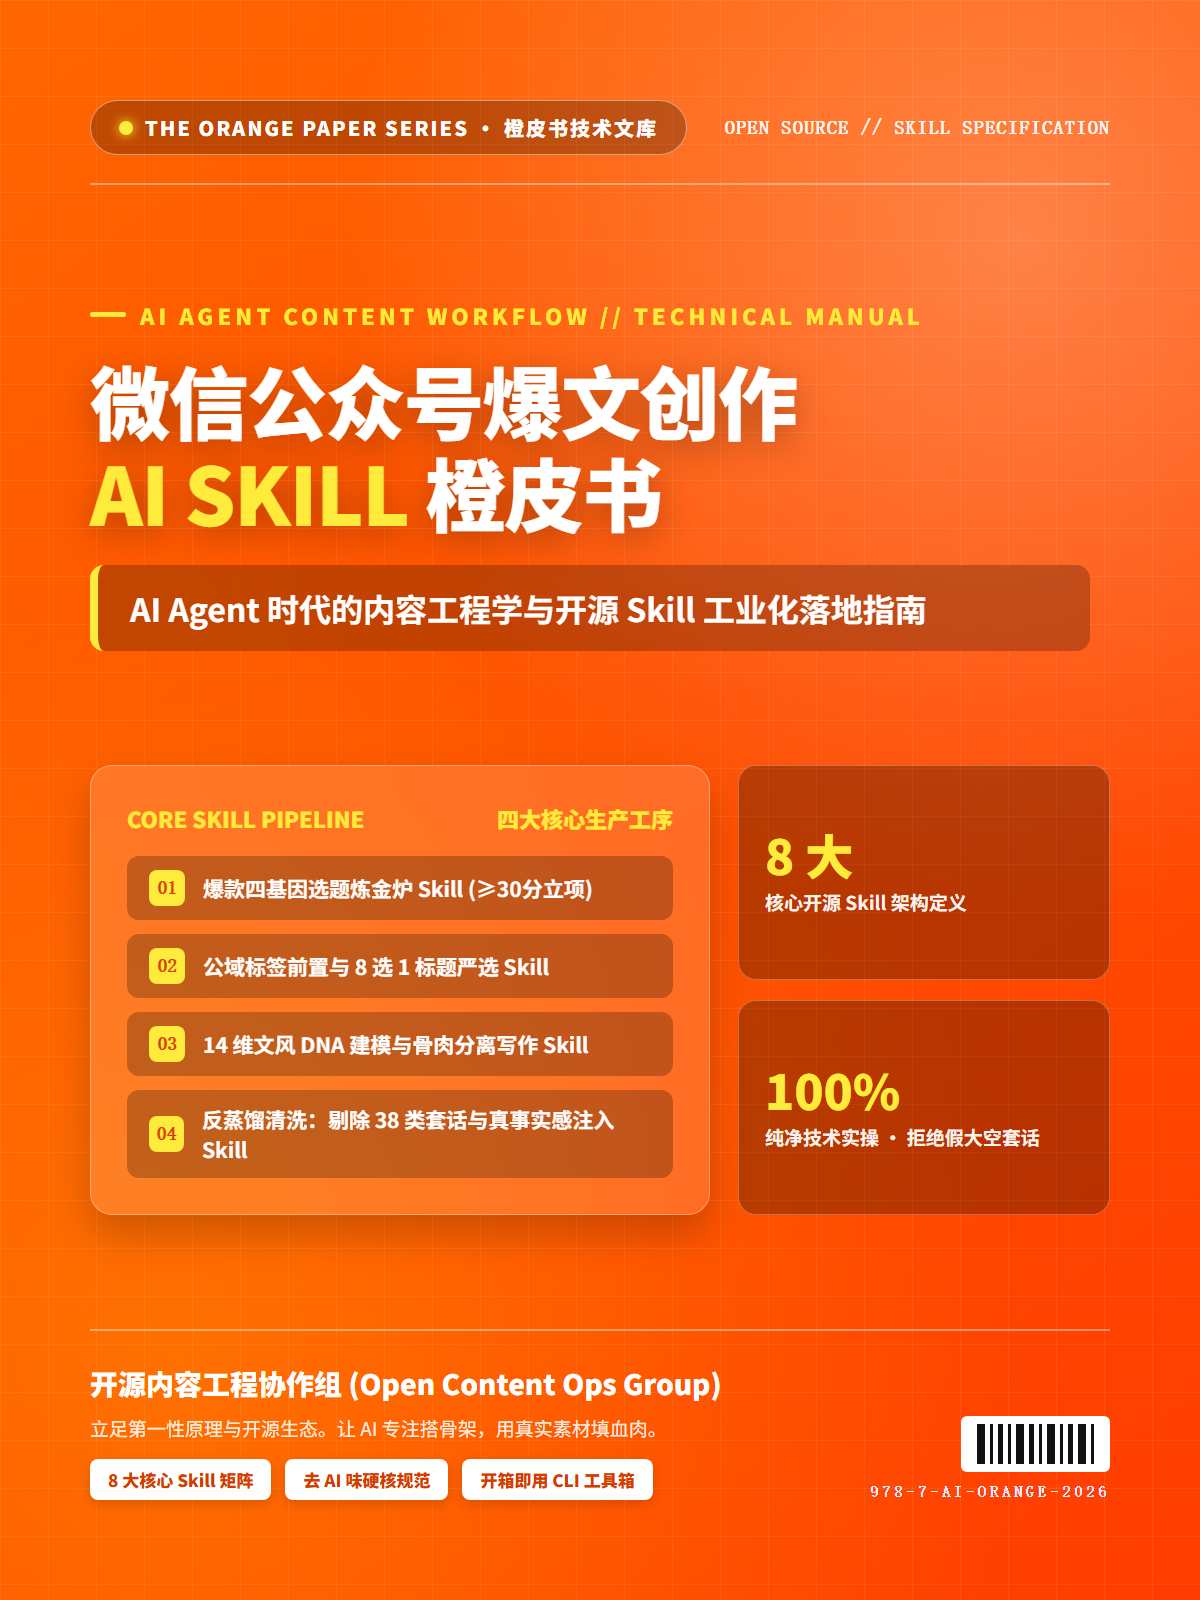
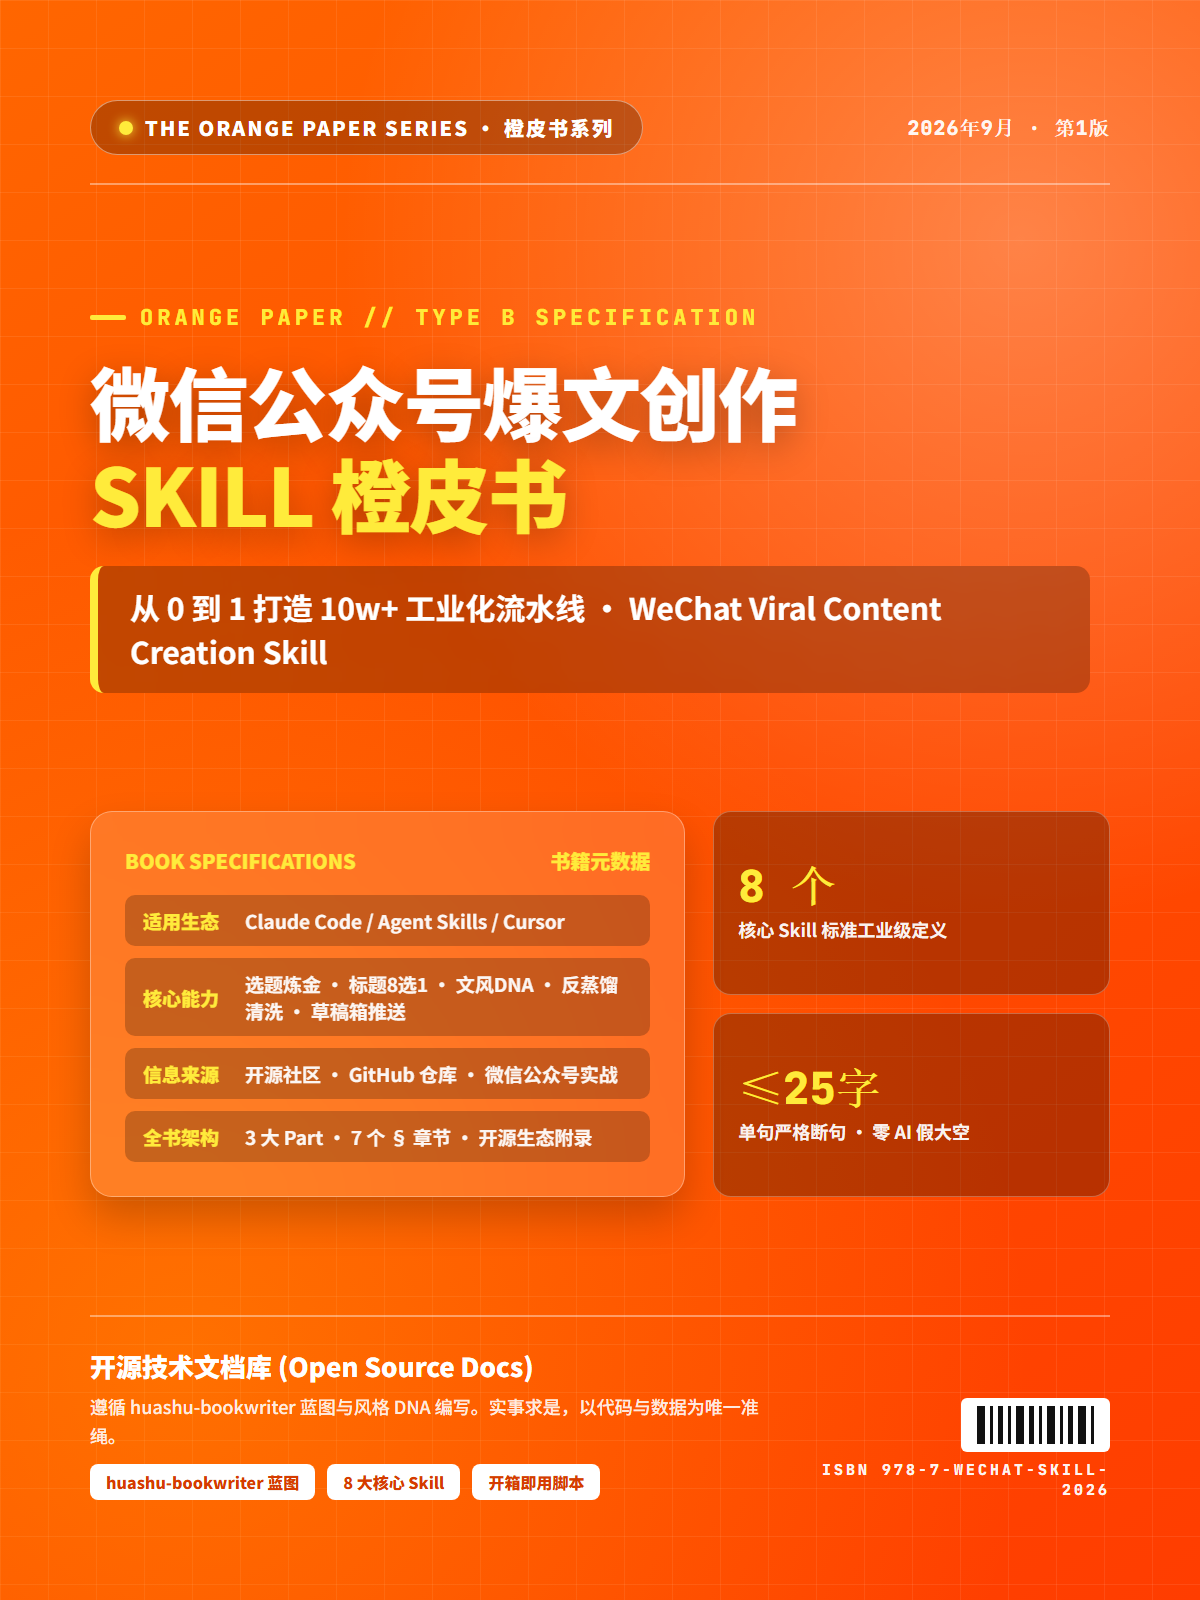
build: adopt ZeroxZhang/huashu-bookwriter skill specification for cover and chapter blueprints

diff --git a/docs/cover.html b/docs/cover.html
@@ -4,7 +4,7 @@
 <meta charset="UTF-8">
 <title>微信公众号爆文创作 Skill 橙皮书 封面</title>
 <style>
-  @import url('https://fonts.googleapis.com/css2?family=Plus+Jakarta+Sans:wght@700;800;900&family=Noto+Sans+SC:wght@500;700;900&family=JetBrains+Mono:wght@600&display=swap');
+  @import url('https://fonts.googleapis.com/css2?family=Plus+Jakarta+Sans:wght@700;800;900&family=Noto+Sans+SC:wght@500;700;900&family=JetBrains+Mono:wght@600;800&display=swap');
 
   * {
     margin: 0;
@@ -26,7 +26,6 @@
     padding: 100px 90px;
   }
 
-  /* 亮橙科技网格背景 */
   .bg-grid {
     position: absolute;
     top: 0;
@@ -43,7 +42,6 @@
     z-index: 1;
   }
 
-  /* 顶栏信息 */
   .top-bar {
     position: relative;
     z-index: 10;
@@ -81,7 +79,6 @@
     letter-spacing: 1px;
   }
 
-  /* 核心标题区 - 超大字号！纯净无私货 */
   .main-title-box {
     position: relative;
     z-index: 10;
@@ -121,7 +118,7 @@
     display: inline;
   }
   .book-subtitle {
-    font-size: 32px;
+    font-size: 30px;
     font-weight: 700;
     line-height: 1.45;
     color: #ffffff;
@@ -133,123 +130,114 @@
     backdrop-filter: blur(10px);
   }
 
-  /* 视觉中枢卡片 - 聚焦 8 大核心 Skill */
-  .visual-center {
+  .meta-grid {
     position: relative;
     z-index: 10;
     margin: 30px 0;
     display: grid;
-    grid-template-columns: 1.25fr 0.75fr;
+    grid-template-columns: 1.2fr 0.8fr;
     gap: 28px;
   }
-  .hero-card {
+  .spec-card {
     background: rgba(255, 255, 255, 0.14);
     backdrop-filter: blur(20px);
     border: 1px solid rgba(255, 255, 255, 0.35);
     border-radius: 22px;
-    padding: 36px;
+    padding: 34px;
     box-shadow: 0 20px 40px rgba(0, 0, 0, 0.2);
   }
-  .hero-card-title {
-    font-size: 22px;
+  .spec-card-title {
+    font-size: 20px;
     font-weight: 800;
     color: #FFEB3B;
-    margin-bottom: 22px;
+    margin-bottom: 20px;
     display: flex;
     justify-content: space-between;
-    align-items: center;
   }
-  .pipeline-steps {
+  .spec-list {
     display: flex;
     flex-direction: column;
-    gap: 14px;
-  }
-  .step-item {
-    display: flex;
-    align-items: center;
-    gap: 18px;
-    font-size: 21px;
-    font-weight: 700;
-    background: rgba(0, 0, 0, 0.24);
-    padding: 14px 22px;
-    border-radius: 12px;
-  }
-  .step-num {
-    background: #FFEB3B;
-    color: #D63B00;
-    font-family: 'JetBrains Mono', monospace;
-    font-weight: 900;
-    width: 36px;
-    height: 36px;
-    border-radius: 8px;
-    display: flex;
-    align-items: center;
-    justify-content: center;
+    gap: 12px;
     font-size: 19px;
   }
-  .stats-card {
+  .spec-row {
+    display: flex;
+    gap: 12px;
+    background: rgba(0, 0, 0, 0.22);
+    padding: 12px 18px;
+    border-radius: 10px;
+    align-items: center;
+  }
+  .spec-k {
+    font-weight: 800;
+    color: #FFEB3B;
+    min-width: 90px;
+  }
+  .spec-v {
+    color: rgba(255, 255, 255, 0.95);
+    font-weight: 600;
+  }
+
+  .summary-card {
     display: flex;
     flex-direction: column;
-    gap: 20px;
+    gap: 18px;
   }
-  .stat-box {
+  .sum-box {
     background: rgba(0, 0, 0, 0.28);
     border: 1px solid rgba(255, 255, 255, 0.28);
     border-radius: 18px;
-    padding: 26px;
+    padding: 24px;
     flex: 1;
     display: flex;
     flex-direction: column;
     justify-content: center;
   }
-  .stat-val {
-    font-family: 'JetBrains Mono', sans-serif;
-    font-size: 48px;
+  .sum-num {
+    font-family: 'JetBrains Mono', monospace;
+    font-size: 44px;
     font-weight: 900;
     color: #FFEB3B;
     line-height: 1;
   }
-  .stat-desc {
-    font-size: 19px;
+  .sum-lbl {
+    font-size: 18px;
     color: rgba(255, 255, 255, 0.95);
-    margin-top: 10px;
+    margin-top: 8px;
     font-weight: 700;
   }
 
-  /* 底部元数据 - 纯粹开源规范 */
   .footer-meta {
     position: relative;
     z-index: 10;
     border-top: 2px solid rgba(255, 255, 255, 0.4);
-    padding-top: 32px;
+    padding-top: 30px;
     display: flex;
     justify-content: space-between;
     align-items: flex-end;
   }
-  .author-info h3 {
-    font-size: 28px;
+  .source-note h3 {
+    font-size: 26px;
     font-weight: 900;
-    margin-bottom: 10px;
-    color: #ffffff;
+    margin-bottom: 8px;
   }
-  .author-info p {
-    font-size: 19px;
+  .source-note p {
+    font-size: 18px;
     color: rgba(255, 255, 255, 0.9);
     line-height: 1.6;
   }
-  .badge-pills {
+  .pill-tags {
     display: flex;
-    gap: 14px;
-    margin-top: 16px;
+    gap: 12px;
+    margin-top: 14px;
   }
-  .badge-pill {
+  .pill-tag {
     background: #ffffff;
     color: #D63B00;
-    font-size: 17px;
+    font-size: 16px;
     font-weight: 800;
-    padding: 8px 18px;
+    padding: 6px 16px;
     border-radius: 8px;
-    box-shadow: 0 4px 12px rgba(0, 0, 0, 0.15);
   }
 
   .barcode-box {
@@ -258,25 +246,21 @@
   .barcode-lines {
     display: inline-flex;
     gap: 5px;
-    height: 56px;
+    height: 54px;
     align-items: flex-end;
     background: #ffffff;
     padding: 8px 16px;
     border-radius: 6px;
   }
-  .bar {
-    background: #111111;
-    width: 3px;
-    height: 100%;
-  }
+  .bar { background: #111111; width: 3px; height: 100%; }
   .bar.thick { width: 8px; }
   .bar.med { width: 5px; }
   .bar.short { height: 75%; }
   .barcode-num {
     font-family: 'JetBrains Mono', monospace;
-    font-size: 16px;
+    font-size: 15px;
     color: rgba(255, 255, 255, 0.95);
-    margin-top: 10px;
+    margin-top: 8px;
     letter-spacing: 3px;
     font-weight: 700;
   }
@@ -285,75 +269,71 @@
 <body>
   <div class="bg-grid"></div>
 
-  <!-- 顶栏 -->
   <div class="top-bar">
     <div class="series-tag">
       <div class="dot"></div>
-      <span>THE ORANGE PAPER SERIES · 橙皮书技术文库</span>
+      <span>THE ORANGE PAPER SERIES · 橙皮书系列</span>
     </div>
-    <div class="version-tag">OPEN SOURCE // SKILL SPECIFICATION</div>
+    <div class="version-tag">2026年9月 · 第1版</div>
   </div>
 
-  <!-- 主标题区（纯粹聚焦微信公众号爆文创作 Skill） -->
   <div class="main-title-box">
-    <div class="badge-category">AI AGENT CONTENT WORKFLOW // TECHNICAL MANUAL</div>
+    <div class="badge-category">ORANGE PAPER // TYPE B SPECIFICATION</div>
     <h1 class="book-title">
       微信公众号爆文创作<br>
-      <span class="accent">AI SKILL</span> 橙皮书
+      <span class="accent">SKILL 橙皮书</span>
     </h1>
     <div class="book-subtitle">
-      AI Agent 时代的内容工程学与开源 Skill 工业化落地指南
+      从 0 到 1 打造 10w+ 工业化流水线 · WeChat Viral Content Creation Skill
     </div>
   </div>
 
-  <!-- 视觉中枢卡片：展示 8 大核心 Skill 管道 -->
-  <div class="visual-center">
-    <div class="hero-card">
-      <div class="hero-card-title">
-        <span>CORE SKILL PIPELINE</span>
-        <span>四大核心生产工序</span>
+  <div class="meta-grid">
+    <div class="spec-card">
+      <div class="spec-card-title">
+        <span>BOOK SPECIFICATIONS</span>
+        <span>书籍元数据</span>
       </div>
-      <div class="pipeline-steps">
-        <div class="step-item">
-          <div class="step-num">01</div>
-          <div>爆款四基因选题炼金炉 Skill (≥30分立项)</div>
+      <div class="spec-list">
+        <div class="spec-row">
+          <div class="spec-k">适用生态</div>
+          <div class="spec-v">Claude Code / Agent Skills / Cursor</div>
         </div>
-        <div class="step-item">
-          <div class="step-num">02</div>
-          <div>公域标签前置与 8 选 1 标题严选 Skill</div>
+        <div class="spec-row">
+          <div class="spec-k">核心能力</div>
+          <div class="spec-v">选题炼金 · 标题8选1 · 文风DNA · 反蒸馏清洗 · 草稿箱推送</div>
         </div>
-        <div class="step-item">
-          <div class="step-num">03</div>
-          <div>14 维文风 DNA 建模与骨肉分离写作 Skill</div>
+        <div class="spec-row">
+          <div class="spec-k">信息来源</div>
+          <div class="spec-v">开源社区 · GitHub 仓库 · 微信公众号实战</div>
         </div>
-        <div class="step-item">
-          <div class="step-num">04</div>
-          <div>反蒸馏清洗：剔除 38 类套话与真事实感注入 Skill</div>
+        <div class="spec-row">
+          <div class="spec-k">全书架构</div>
+          <div class="spec-v">3 大 Part · 7 个 § 章节 · 开源生态附录</div>
         </div>
       </div>
     </div>
 
-    <div class="stats-card">
-      <div class="stat-box">
-        <div class="stat-val">8 大</div>
-        <div class="stat-desc">核心开源 Skill 架构定义</div>
+    <div class="summary-card">
+      <div class="sum-box">
+        <div class="sum-num">8 个</div>
+        <div class="sum-lbl">核心 Skill 标准工业级定义</div>
       </div>
-      <div class="stat-box">
-        <div class="stat-val">100%</div>
-        <div class="stat-desc">纯净技术实操 · 拒绝假大空套话</div>
+      <div class="sum-box">
+        <div class="sum-num">≤25字</div>
+        <div class="sum-lbl">单句严格断句 · 零 AI 假大空</div>
       </div>
     </div>
   </div>
 
-  <!-- 底部纯粹技术出版信息 -->
   <div class="footer-meta">
-    <div class="author-info">
-      <h3>开源内容工程协作组 (Open Content Ops Group)</h3>
-      <p>立足第一性原理与开源生态。让 AI 专注搭骨架，用真实素材填血肉。</p>
-      <div class="badge-pills">
-        <span class="badge-pill">8 大核心 Skill 矩阵</span>
-        <span class="badge-pill">去 AI 味硬核规范</span>
-        <span class="badge-pill">开箱即用 CLI 工具箱</span>
+    <div class="source-note">
+      <h3>开源技术文档库 (Open Source Docs)</h3>
+      <p>遵循 huashu-bookwriter 蓝图与风格 DNA 编写。实事求是，以代码与数据为唯一准绳。</p>
+      <div class="pill-tags">
+        <span class="pill-tag">huashu-bookwriter 蓝图</span>
+        <span class="pill-tag">8 大核心 Skill</span>
+        <span class="pill-tag">开箱即用脚本</span>
       </div>
     </div>
 
@@ -364,7 +344,7 @@
         <div class="bar"></div><div class="bar thick"></div><div class="bar"></div>
         <div class="bar med"></div><div class="bar thick"></div><div class="bar"></div>
       </div>
-      <div class="barcode-num">978-7-AI-ORANGE-2026</div>
+      <div class="barcode-num">ISBN 978-7-WECHAT-SKILL-2026</div>
     </div>
   </div>
 </body>
